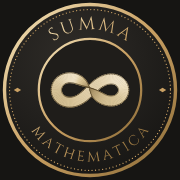
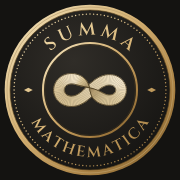
完全版メダル（assets/medal.svg）をトップページに表示、アイコンの縁を金に
Claude-Session: https://claude.ai/code/session_011o54GCXbd496CWhJcDkgWp

diff --git a/style.css b/style.css
@@ -219,6 +219,13 @@ html.mn-lock, html.mn-lock body { overflow: hidden; }
 .mn-page-head h1 { margin: 2px 0 0; font-size: clamp(24px, 1.2rem + 1.6vw, 32px); line-height: 1.35; font-weight: 700; overflow-wrap: anywhere; }
 /* トップページの題字：欧文のサイト名（大きなセリフ体）と和文の副題（明朝・字間を広く）を 2 行に */
 .mn-article:is([data-kind="home"], [data-kind="dir"]) .mn-page-head { margin: 18px 0 22px; padding: 10px 0 26px; text-align: center; }
+/* トップページのメダル。並びはライト・ダーク共通で、光の当て方だけ分ける（ライトは下に影、ダークは金の光で縁取る） */
+.mn-hero-medal { display: block; width: clamp(140px, 24vw, 220px); height: auto; margin: 12px auto 28px; border-radius: 50%;
+  box-shadow: 0 18px 40px rgba(60, 45, 20, .28), 0 4px 10px rgba(0, 0, 0, .18); }
+@media (prefers-color-scheme: dark) {
+  :root:not([data-theme="light"]) .mn-hero-medal { box-shadow: 0 0 0 1px rgba(201, 160, 99, .25), 0 0 60px rgba(201, 160, 99, .22), 0 18px 40px rgba(0, 0, 0, .6); }
+}
+:root[data-theme="dark"] .mn-hero-medal { box-shadow: 0 0 0 1px rgba(201, 160, 99, .25), 0 0 60px rgba(201, 160, 99, .22), 0 18px 40px rgba(0, 0, 0, .6); }
 .mn-page-head h1.mn-hero { display: flex; flex-direction: column; align-items: center; gap: 12px; margin: 0; font-weight: 400; }
 .mn-hero-title { font-family: "Iowan Old Style", "Palatino Linotype", Palatino, "Book Antiqua", "Hoefler Text", Georgia, "Times New Roman", serif;
   font-size: clamp(34px, 1.4rem + 4vw, 58px); line-height: 1.1; letter-spacing: .06em; font-variant-ligatures: common-ligatures discretionary-ligatures; color: var(--mn-fg); }

diff --git a/site.js b/site.js
@@ -248,6 +248,8 @@
     var hero = KIND === 'home' ? [C.SITE_TITLE, C.SITE_SUBTITLE]
       : KIND === 'dir' ? (/^(.+?)（([^（）]+)）$/.exec(title) || [null, title, '']).slice(1) : null;
     el.innerHTML = '<header class="mn-page-head">' +
+      // トップページ：題名の上に完全版のメダル（assets/medal.svg）を大きく出す
+      (KIND === 'home' ? '<img class="mn-hero-medal" src="' + ROOT + 'assets/medal.svg" width="512" height="512" alt="Summa Mathematica のメダル" decoding="async">' : '') +
       (PG ? '<div class="mn-page-sec">' + esc(PG.subj) + ' §' + PG.sec + '</div>' : '') +
       (hero
         // トップページ・フォルダ概要ページ：題名と副題（日本語名・英語名）を 2 行に分けて飾る

diff --git a/tools/medal.py b/tools/medal.py
@@ -1,0 +1,84 @@
+# 完全版メダル（assets/medal.svg）を作る。文字は Cinzel（SIL OFL 1.1）の字形を輪郭（path）にして埋め込む
+import math, re, sys
+from fontTools.ttLib import TTFont
+from fontTools.pens.svgPathPen import SVGPathPen
+from fontTools.pens.transformPen import TransformPen
+
+FONT, FAV, OUT = sys.argv[1], sys.argv[2], sys.argv[3]
+font = TTFont(FONT); gs = font.getGlyphSet(); cmap = font.getBestCmap(); upm = font['head'].unitsPerEm
+C = 256.0
+
+def glyph_path(ch, a, b, c, d, e, f):
+    pen = SVGPathPen(gs, ntos=lambda v: ('%.2f' % v).rstrip('0').rstrip('.'))
+    gs[cmap[ord(ch)]].draw(TransformPen(pen, (a, b, c, d, e, f)))
+    return pen.getCommands()
+
+def adv(ch): return gs[cmap[ord(ch)]].width
+
+def arc_text(text, radius, size, track, top):
+    k = size / upm
+    widths = [adv(ch) * k for ch in text]
+    total = sum(widths) + track * (len(text) - 1)
+    ang_total = total / radius
+    out = []
+    # top：上の弧に左から右へ（字の上が外側）。bottom：下の弧に左から右へ（字の上が内側）
+    pos = -ang_total / 2
+    for ch, w in zip(text, widths):
+        mid = pos + (w / 2) / radius
+        if top:
+            th = -math.pi / 2 + mid; rot = th + math.pi / 2
+        else:
+            th = math.pi / 2 - mid; rot = th - math.pi / 2
+        px, py = C + radius * math.cos(th), C + radius * math.sin(th)
+        cr, sr = math.cos(rot), math.sin(rot)
+        # 字形座標 (x,y)（y 上向き）→ 平行移動(-w/2/k) → 拡大(k,-k) → 回転 → 平行移動(p)
+        # M = T(p) R(rot) S(k,-k) T(-w/(2k),0)
+        a, b = cr * k, sr * k
+        c, d = sr * k, -cr * k   # (x, y) の y 成分：R・(0,-k)
+        e = px + a * (-w / (2 * k)); f = py + b * (-w / (2 * k))
+        out.append(glyph_path(ch, a, b, c, d, e, f))
+        pos += (w + track) / radius
+    return ' '.join(out)
+
+fav = open(FAV, encoding='utf-8').read()
+inf = fav[fav.index('<g stroke-linecap'):fav.rindex('</svg>')]
+
+R_OUT, R_RIM_IN, R_DOTS, R_TXT_IN, R_INNER = 254, 238, 226, 160, 140
+cap = 0.7  # Cinzel の大文字の高さ（em 比）の目安
+size = 50
+top = arc_text('SUMMA', R_TXT_IN + 4, size * 1.08, 12, True)
+bot = arc_text('MATHEMATICA', R_TXT_IN + 4 + size * cap, size * 0.9, 7, False)
+
+dots = []
+n = 132
+for i in range(n):
+    t = 2 * math.pi * i / n
+    dots.append('<circle cx="%.2f" cy="%.2f" r="2.1"/>' % (C + R_DOTS * math.cos(t), C + R_DOTS * math.sin(t)))
+
+def diamond(cx, cy):
+    return '<path d="M%.1f %.1fL%.1f %.1fL%.1f %.1fL%.1f %.1fZ"/>' % (cx - 13, cy, cx, cy - 6.5, cx + 13, cy, cx, cy + 6.5)
+r_mid = R_TXT_IN + 4 + size * cap / 2 + 2
+
+s = 4.6
+svg = f'''<svg xmlns="http://www.w3.org/2000/svg" viewBox="0 0 512 512">
+<!-- Summa Mathematica の完全版メダル。生成：tools/medal.py（文字は Cinzel, SIL Open Font License 1.1 の字形を輪郭にしたもの） -->
+<title>Summa Mathematica</title>
+<defs>
+<linearGradient id="gold" x1="0" y1="0" x2="1" y2="1"><stop offset="0" stop-color="#f6e8c3"/><stop offset=".45" stop-color="#d2ad6e"/><stop offset=".75" stop-color="#a77f42"/><stop offset="1" stop-color="#7d5d2c"/></linearGradient>
+<linearGradient id="goldText" gradientUnits="userSpaceOnUse" x1="60" y1="40" x2="452" y2="472"><stop offset="0" stop-color="#f3e2b6"/><stop offset=".5" stop-color="#d6b273"/><stop offset="1" stop-color="#9c763b"/></linearGradient>
+<linearGradient id="goldDark" x1="1" y1="1" x2="0" y2="0"><stop offset="0" stop-color="#f1deb0"/><stop offset="1" stop-color="#7a5a2a"/></linearGradient>
+<radialGradient id="ink" cx="40%" cy="32%" r="78%"><stop offset="0" stop-color="#302d28"/><stop offset="1" stop-color="#141311"/></radialGradient>
+</defs>
+<circle cx="256" cy="256" r="{R_OUT}" fill="url(#gold)"/>
+<circle cx="256" cy="256" r="{R_OUT - 7}" fill="none" stroke="url(#goldDark)" stroke-width="1.5" opacity=".7"/>
+<circle cx="256" cy="256" r="{R_RIM_IN}" fill="url(#ink)"/>
+<circle cx="256" cy="256" r="{R_RIM_IN}" fill="none" stroke="#5a431f" stroke-width="2"/>
+<g fill="url(#goldText)">{''.join(dots)}</g>
+<g fill="url(#goldText)"><path d="{top}"/><path d="{bot}"/>{diamond(C - r_mid, C)}{diamond(C + r_mid, C)}</g>
+<circle cx="256" cy="256" r="{R_INNER}" fill="none" stroke="url(#gold)" stroke-width="6"/>
+<circle cx="256" cy="256" r="{R_INNER - 5}" fill="none" stroke="#5a431f" stroke-width="1.2" opacity=".8"/>
+<g transform="translate(256 256) scale({s}) translate(-32 -32.5)">{inf[inf.index('>') + 1:inf.rindex('</g>')].join(['<g stroke-linecap="round" stroke-linejoin="round">', '</g>']) if False else inf}</g>
+</svg>
+'''
+open(OUT, 'w', encoding='utf-8').write(svg)
+print('written', OUT, len(svg))

diff --git a/_claude/START.md b/_claude/START.md
@@ -287,7 +287,7 @@
 ├── site.js / search.js   ← レイアウト（ナビ・目次・参照プレビュー）／サイト内検索
 ├── style.css             ← デザイン（下記）
 ├── vendor/               ← KaTeX, marked（オフライン動作）
-├── assets/               ← サイトのアイコン（墨と金のメダル。favicon.svg・favicon-32.png・apple-touch-icon.png）。build.js・labels.js は分野として扱わない
+├── assets/               ← サイトのアイコン（墨と金のメダル）。完全版 medal.svg（銘 SUMMA / MATHEMATICA・点線・内側の輪。トップページに表示）と保存用の medal-1024.png、簡約版 favicon.svg（金の縁と ∞ だけ。小さいと銘が潰れるため）・favicon-32.png、ホーム画面用 apple-touch-icon.png（完全版）。medal.svg は tools/medal.py で作る（文字は Cinzel〔SIL OFL〕の字形を輪郭にしたもの。フォントは @fontsource/cinzel の woff を引数で渡す）。build.js・labels.js は分野として扱わない
 ├── tools/build.js        ← ビルド＆検査
 ├── tools/labels.js       ← ラベル管理（status / find / planned / uses / rename / activate）
 ├── index.html, search.html, glossary.html, labels.json, site-index.js, search-index.js  ← 自動生成（手で編集しない）
